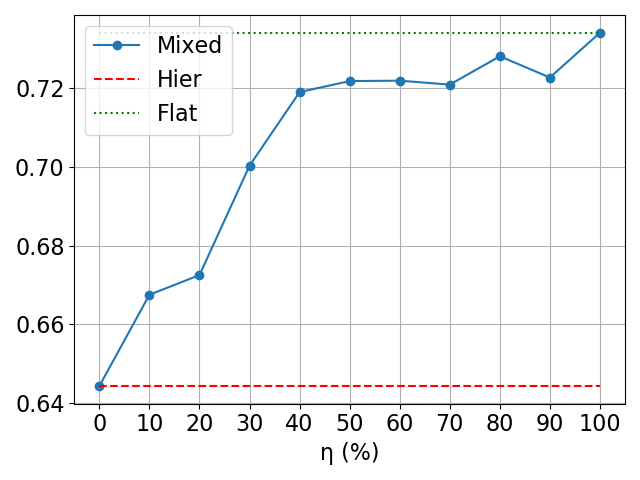
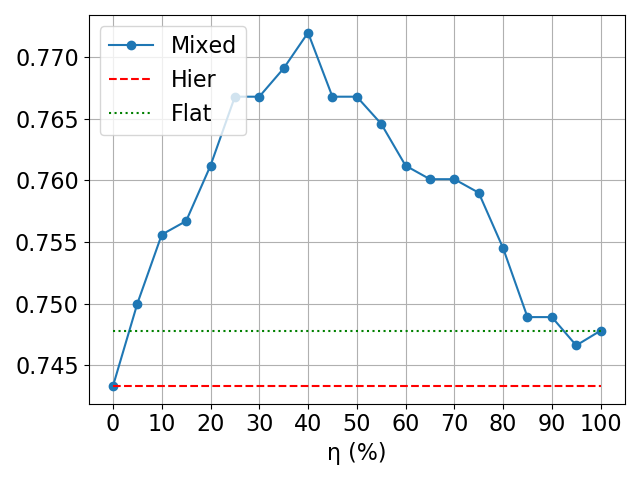
boss in small dataset

diff --git a/Boss/hier_inference.py b/Boss/hier_inference.py
@@ -1,0 +1,205 @@
+from tensorflow.keras.applications.densenet import DenseNet121
+from tensorflow.keras.layers import Dense, GlobalAveragePooling2D, Dropout, Flatten, Input
+import csv
+from numpy import array
+from operator import itemgetter
+import cv2
+import os
+import time
+import tensorflow as tf
+import numpy as np
+
+
+IMG_HEIGHT = 224
+IMG_WIDTH = 224
+
+def import_dataset(path_dataset, mode):
+    dataset = []
+    dataset_unsorted = []
+    print("Start importing " + mode + " images...")
+    for filename in os.listdir(path_dataset):
+        if filename.endswith(".jpg"):
+            complete_path = os.path.join(path_dataset, filename)
+            image = cv2.imread(complete_path, cv2.IMREAD_COLOR)
+            image = cv2.cvtColor(image, cv2.COLOR_BGR2RGB)  # from BGR to RGB
+            dim = (IMG_HEIGHT, IMG_WIDTH)  # image dimensions
+            image = cv2.resize(image, dsize=dim, interpolation=cv2.INTER_AREA)
+            image_filename = [filename, image]
+            dataset_unsorted.append(image_filename)
+        else:
+            continue
+
+    # orders the list of images by alphabetic order of its name
+    dataset_unsorted = sorted(dataset_unsorted, key=itemgetter(0))
+
+    # creates a list with only the image and not its filename
+    for x in dataset_unsorted:
+        dataset.append(x[1])
+    return array(dataset)  # Converts the lists into numpy.ndarray
+
+def create_labels(path):
+    target = []
+
+
+    counter = {'MEL': 0, 'NV': 0, 'BCC': 0, 'AKIEC': 0, 'BKL': 0, 'DF': 0, 'VASC': 0}
+    i = 0
+    with open(path, 'r') as file:
+        reader = csv.reader(file)
+        for row in reader:
+            if i == 0:
+                i += 1
+                continue
+            if row[1] == '1.0':  # MEL
+                counter['MEL'] += 1
+                target.append(0)
+
+            elif row[2] == '1.0':  # NV
+                counter['NV'] += 1
+                target.append(1)
+
+            elif row[3] == '1.0':  # BCC
+                counter['BCC'] += 1
+                target.append(2)
+
+            elif row[4] == '1.0':  # AKIEC
+                counter['AKIEC'] += 1
+                target.append(3)
+
+            elif row[5] == '1.0':  # BKL
+                counter['BKL'] += 1
+                target.append(4)
+
+            elif row[6] == '1.0':  # DF
+                counter['DF'] += 1
+                target.append(5)
+
+            elif row[7] == '1.0':  # VASC
+                counter['VASC'] += 1
+                target.append(6)
+
+            else:
+                continue
+    print(counter)
+    file.close()
+    return target
+
+
+def create_model():
+
+    inputs = tf.keras.Input(shape=(IMG_HEIGHT, IMG_WIDTH, 3)) # inputs.shape, inputs.dtype
+    densenet = DenseNet121(include_top=False, weights='imagenet')
+    x = densenet(inputs)
+    x = GlobalAveragePooling2D()(x)
+    x = Dropout(0.5)(x)
+
+    a = Dense(2, activation='softmax', name="model_a")(x)
+    b = Dense(2, activation='softmax', name="model_b")(x)
+    c = Dense(2, activation='softmax', name="model_c")(x)
+    d = Dense(3, activation='softmax', name="model_d")(x)
+    e = Dense(2, activation='softmax', name="model_e")(x)
+
+    model = tf.keras.Model(inputs=inputs, outputs=[a, b, c, d, e], name='global_loss')
+    model.summary()
+    return model
+
+def split_in_a(y_pred, x, y_true):
+    x_b = []
+    x_c = []
+    y_true_b = []
+    y_true_c = []
+    y = y_pred[0] # y_a
+
+    if len(x) != len(y):
+        print("oops", len(x), len(y), model)
+        exit(0)
+
+    for i in range(len(y)):
+        if y[i][0] > y[i][1]:
+            x_b.append(x[i])
+            y_true_b.append(y_true[i])
+        else:
+            x_c.append(x[i])
+            y_true_c.append(y_true[i])
+
+    return array(x_b), array(x_c), y_true_b, y_true_c
+
+def split_in_c(y_pred, x, y_true):
+    x_d = []
+    x_e = []
+    y_true_d = []
+    y_true_e = []
+    y = y_pred[2]  # y_c
+
+    if len(x) != len(y):
+        print("oops", len(x), len(y), model)
+        exit(0)
+
+    for i in range(len(y)):
+        if y[i][0] > y[i][1]:
+            x_e.append(x[i])
+            y_true_e.append(y_true[i])
+        else:
+            x_d.append(x[i])
+            y_true_d.append(y_true[i])
+
+    return array(x_d), array(x_e), y_true_d, y_true_e
+
+def get_max_index(l):
+    index = 0
+    max = l[0]
+    for i in range(1, len(l)):
+        if l[i] > max:
+            index = i
+            max = l[i]
+    return index
+
+def update_conf_matrix(model, pred, true, conf, offset, total):
+    pred = pred[model]
+    d = {0: 0, 1: 0, 2: 0}
+    if len(pred) != len(true):
+        print("meh!")
+        exit(0)
+    for i in range(len(pred)):
+        total += 1
+        prediction = get_max_index(pred[i])
+        d[prediction] += 1
+        conf[true[i]][prediction+offset] += 1
+    print("model: ", model, " - ", d)
+    print("####################")
+    return conf, total
+
+
+if __name__ == '__main__':
+
+    start_time = time.time()
+
+    p_val = '/home/ruben/Desktop/smallval2018'
+    t_val = '/home/ruben/Desktop/smallval2018/labels.csv'
+
+    model = create_model()
+
+    x_val = import_dataset(p_val, 'val')
+    y_val = create_labels(t_val)
+
+    checkpoint_path = "/home/ruben/Desktop/Boss/small_dataset_weights/cp.ckpt"
+    model.load_weights(checkpoint_path)
+
+    y_pred = model.predict(x_val)
+    x_b, x_c, y_true_b, y_true_c = split_in_a(y_pred, x_val, y_val)
+
+    y_pred = model.predict(x_c)
+    x_d, x_e, y_true_d, y_true_e = split_in_c(y_pred, x_c, y_true_c)
+
+    y_pred_b = model.predict(x_b)
+    y_pred_d = model.predict(x_d)
+    y_pred_e = model.predict(x_e)
+
+    conf_matrix = np.zeros(shape=(7, 7), dtype=int)
+    conf_matrix, total = update_conf_matrix(1, y_pred_b, y_true_b, conf_matrix, 0, 0)
+    conf_matrix, total = update_conf_matrix(3, y_pred_d, y_true_d, conf_matrix, 4, total)
+    conf_matrix, total = update_conf_matrix(4, y_pred_e, y_true_e, conf_matrix, 2, total)
+
+    print(conf_matrix)
+    print(total)
+
+    print("--- %s seconds ---" % (time.time() - start_time))

diff --git a/Boss/model.py b/Boss/model.py
@@ -191,9 +191,6 @@ if __name__ == "__main__":
     y_train, y_a, y_b, y_c, y_d, y_e, counter_train = create_labels(t_train)
     y_val, y_val_a, y_val_b, y_val_c, y_val_d, y_val_e, counter_val = create_labels(t_val)
 
-    print(counter_train)
-    print(counter_val)
-    exit(0)
     count_labels(y_a)
     count_labels(y_b)
     count_labels(y_c)
@@ -253,14 +250,14 @@ if __name__ == "__main__":
 
     scheduler_cb = tf.keras.callbacks.LearningRateScheduler(scheduler)
 
-    class_weights_a = {0: 24012. / 18633, 1: 24012. / 5379}
-    class_weights_b = {0: 18633. / 2697, 1: 18633. / 15936}
-    class_weights_c = {0: 5379. / 2106, 1: 5379. / 3273}
-    class_weights_d = {0: 3273. / 2625, 1: 3273. / 291, 2: 3273. / 357}
-    class_weights_e = {0: 2106. / 1272, 1: 2106. / 834}
+    class_weights_a = {0: 10608. / 8361, 1: 10608. / 2247}
+    class_weights_b = {0: 8361. / 1212, 1: 8361. / 7149}
+    class_weights_c = {0: 2247. / 879, 1: 2247. / 1368}
+    class_weights_d = {0: 1368. / 1101, 1: 1368. / 114, 2: 1368. / 153}
+    class_weights_e = {0: 879. / 519, 1: 879. / 360}
     class_weights = [class_weights_a, class_weights_b, class_weights_c, class_weights_d, class_weights_e]
 
-    fit = model.fit(x_train, [y_a_cat, y_b_cat, y_c_cat, y_d_cat, y_e_cat], batch_size=10, epochs=10, callbacks=[cp_callback, scheduler_cb],
+    fit = model.fit(x_train, [y_a_cat, y_b_cat, y_c_cat, y_d_cat, y_e_cat], batch_size=10, epochs=20, callbacks=[cp_callback, scheduler_cb],
                     class_weight=class_weights, validation_data=(x_val, [y_val_a_cat, y_val_b_cat, y_val_c_cat, y_val_d_cat, y_val_e_cat])) # class_weights?
 
 

diff --git a/Utils/plotConfMatrix.py b/Utils/plotConfMatrix.py
@@ -4,13 +4,13 @@ import matplotlib.pyplot as plt
 import numpy as np
 
 
-multiclass = np.array([[152,16,14,12,17,1,2],
-[258,911,42,10,131,25,16],
-[7,1,61,7,7,6,1],
-[9,1,17,19,3,0,0],
-[52,14,23,28,96,10,1],
-[3,1,2,0,0,12,0],
-[0,0,1,0,0,1,21]])
+multiclass = np.array([[51,7,6,6,14,7,3],
+[137,422,8,5,26,6,17],
+[1,1,22,5,3,0,8],
+[0,0,12,11,1,0,0],
+[16,3,9,4,52,3,7],
+[0,0,1,0,2,1,3],
+[0,0,2,0,0,0,10]])
 
 class_names = ['MEL', 'NV', 'BKL', 'DF', 'VASC', 'BCC', 'AKIEC']
 

diff --git a/Stats/metrics.py b/Stats/metrics.py
@@ -52,7 +52,7 @@ def calculate_acc(lesion, matrix):
     return acc, se, sp, tp/(tp+fp), prec
 
 
-matrix = read_matrix("/home/ruben/PycharmProjects/SkinLesions6/Mixed/Shared/95.txt")
+matrix = read_matrix("/home/ruben/PycharmProjects/SkinLesions6/Boss/results.txt")
 print(matrix)
 acc_total = 0.0
 se_total = 0.0

diff --git a/Utils/changeMatrix.py b/Utils/changeMatrix.py
@@ -1,5 +1,5 @@
 no_classes = 7
-path = '/home/ruben/PycharmProjects/SkinLesions2/20epochs_noTL/VGG/vgg.txt'
+path = '/home/ruben/PycharmProjects/SkinLesions6/Boss/results.txt'
 
 with open(path, "r") as f:
     data = f.readlines()

diff --git a/Flat/flat.py b/Flat/flat.py
@@ -177,6 +177,7 @@ y_train = assign_labels(t_train)
 x_val = import_dataset(p_val, 'validation')
 y_val = assign_labels(t_val)
 
+exit(0)
 print("Images imported.")
 
 no_epochs = 20
